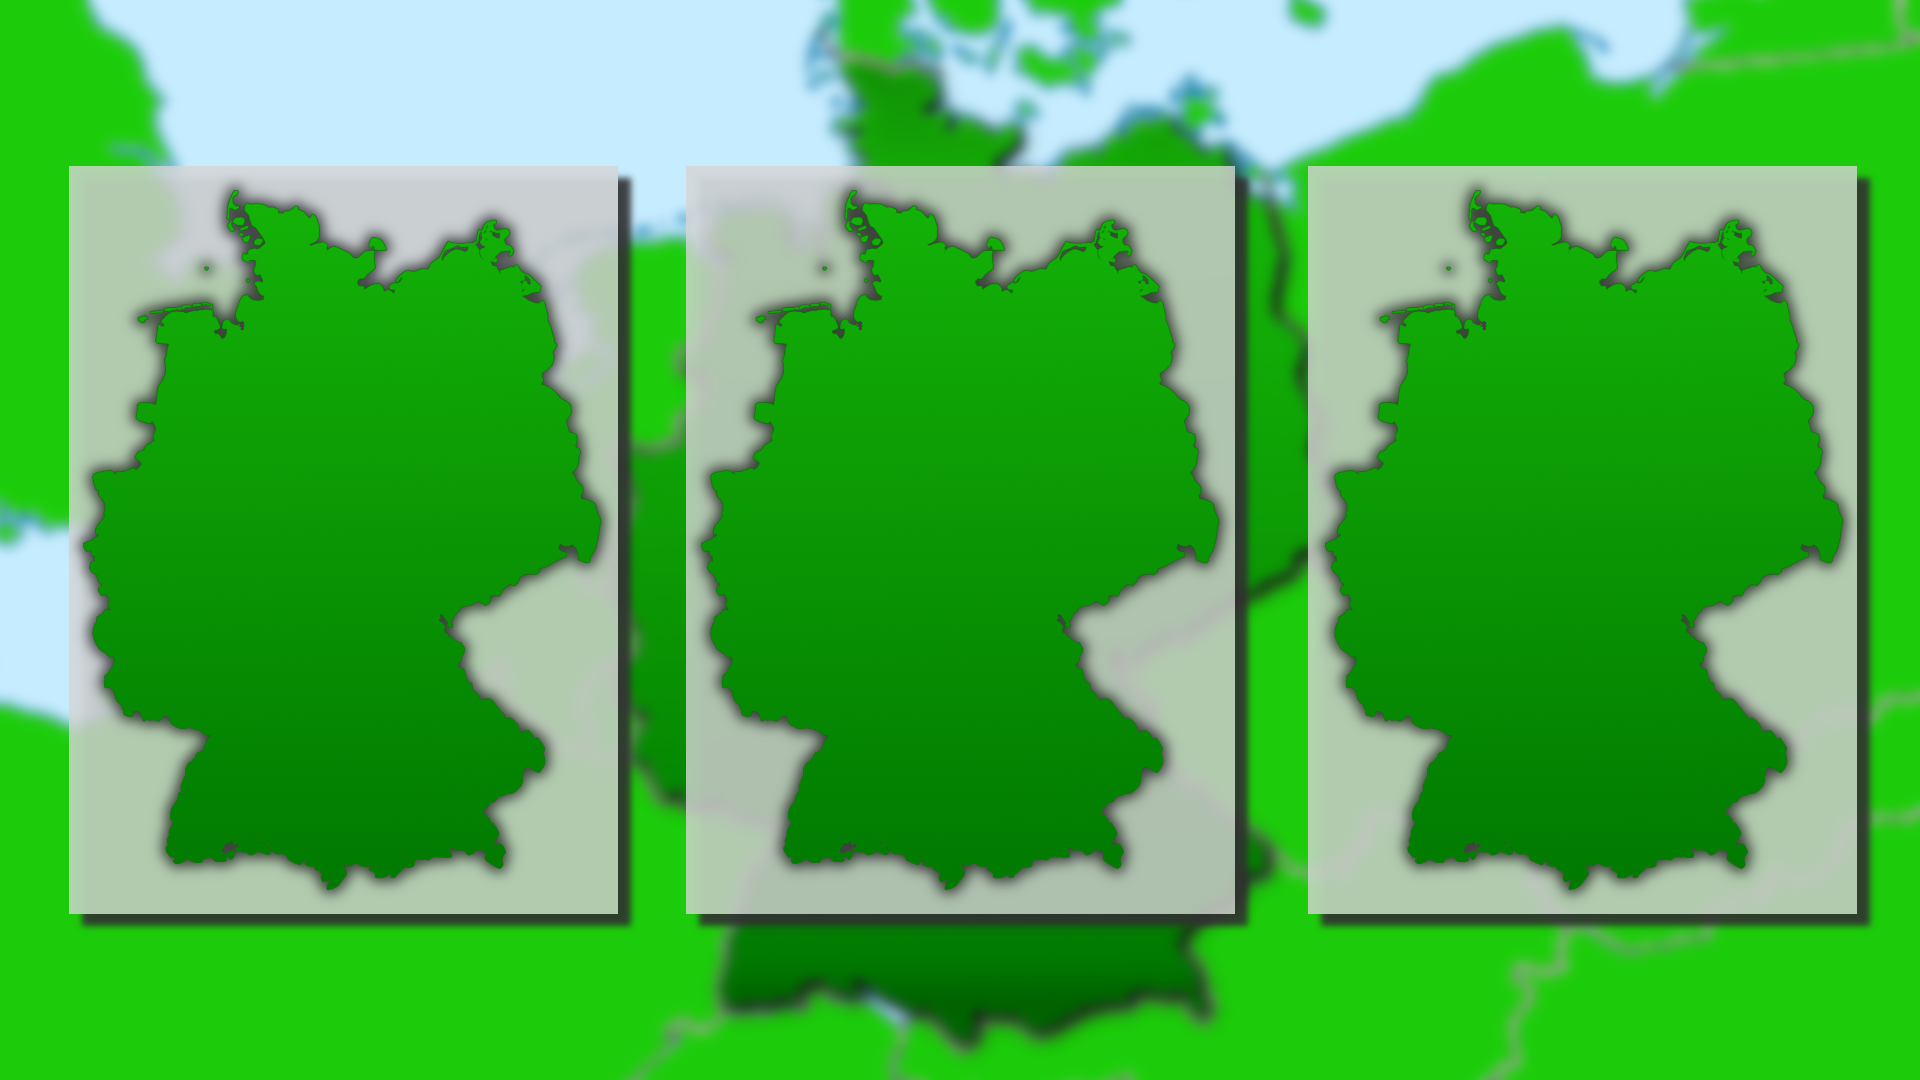
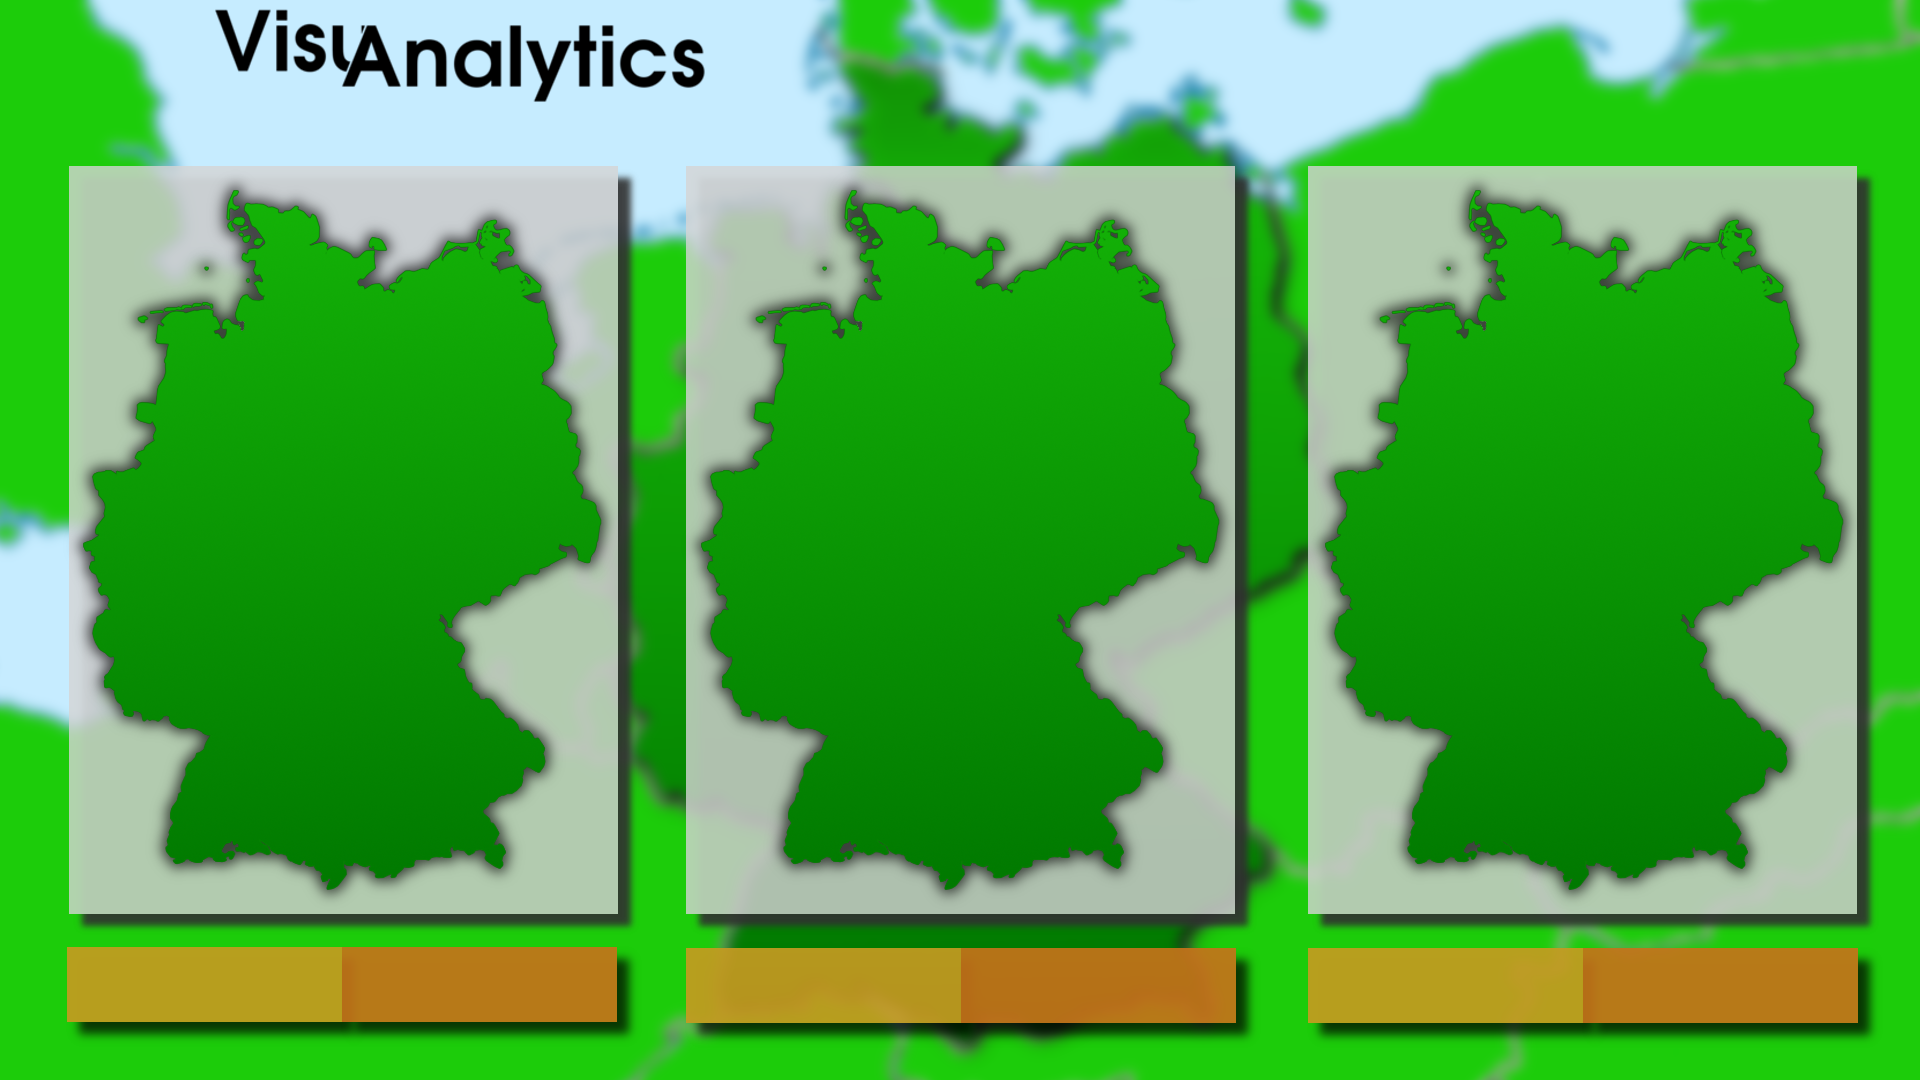
Wochentage auf 3 Tages Vorhersage hinzugefügt

Changed region(s): [[0.0312, 0.8556, 1.0, 0.9778], [0.0938, 0.0, 0.375, 0.0917]]

diff --git a/src/visuanalytics/analytics/processing/weather/weather_visualization.py b/src/visuanalytics/analytics/processing/weather/weather_visualization.py
@@ -6,13 +6,21 @@ from PIL import Image
 from PIL import ImageDraw
 from PIL import ImageFont
 from visuanalytics.analytics.util import resources
+from visuanalytics.analytics.processing.util import date_time
 import uuid
 
+LOCATIONS_WEEKDAYS = [(205, 103), (828, 103), (1435, 103)]
+"""
+list: Liste aus Tupeln: X und Y Koordinaten der Min Temperaturen in der 3 Tages Vorhersage.
+"""
 
-def get_three_pic(data, data2):
+
+def get_three_pic(data, data2, date):
     """
     Methode zum generieren des Bildes für die Vorhersage für die nächsten 2-4 Tage.
 
+    :param datum: Datum des Tages zuvor
+    :type datum : str
     :param data: Das Ergebnis der Methode :func:`get_ico_three()`.
     :type data: list
     :param dat2: Das Ergebnis der Methode :func:`get_temp_mm_three()`.
@@ -32,11 +40,17 @@ def get_three_pic(data, data2):
             source_img.paste(icon, item[i + 0], icon)
 
     draw = ImageDraw.Draw(source_img)
-
     for item in data2:
         draw.text((item[0][0] + _get_shifting(item[1]), item[0][1]), item[1],
-                  font=ImageFont.truetype(resources.get_resource_path("weather/FreeSansBold.ttf"), 60))
+                  font=ImageFont.truetype(resources.get_resource_path("weather/FreeSansBold.ttf"), 60), )
 
+    weekdates = date_time.date_to_weekday(date)
+    for idx, item in enumerate(LOCATIONS_WEEKDAYS):
+        draw.text((item[0] + 4, item[1] + 4), str(weekdates[idx + 1]),
+                  font=ImageFont.truetype(resources.get_resource_path("weather/weather/FreeSansBold.ttf"), 60),
+                  fill="black")
+        draw.text((item[0], item[1]), str(weekdates[idx + 1]),
+                  font=ImageFont.truetype(resources.get_resource_path("weather/weather/FreeSansBold.ttf"), 60))
     file = str(uuid.uuid4())
     Image.composite(img1, source_img, img1).save(
         resources.get_resource_path("temp/weather/" + file + ".png"))

diff --git a/src/visuanalytics/analytics/preprocessing/weather.py b/src/visuanalytics/analytics/preprocessing/weather.py
@@ -192,7 +192,7 @@ def get_temp_mm_three(data):
     out = []
     for idx, entry in enumerate(LOCATIONS_TEMP_MIN_THREEDAYS):
         out.append((entry, _get_min_temp(data, idx + 1)))
-    for entry in LOCATIONS_TEMP_MAX_THREEDAYS:
+    for idx, entry in enumerate(LOCATIONS_TEMP_MAX_THREEDAYS):
         out.append((entry, _get_max_temp(data, idx + 1)))
     return out
 
@@ -222,6 +222,11 @@ def get_ico_three(data):
             (entry[1], entry[2], entry[3], _get_weather_icon(data, entry[0], 1), _get_weather_icon(data, entry[0], 2),
              _get_weather_icon(data, entry[0], 3)))
     return out
+
+
+def get_day(data):
+    return data['cities']['Kiel'][0]['datetime']
+    pass
 
 
 def _get_weather_icon(data, location, date_in_future):

diff --git a/src/visuanalytics/analytics/control/weather/forecast_germany.py b/src/visuanalytics/analytics/control/weather/forecast_germany.py
@@ -14,6 +14,6 @@ else:
 data = weather.preprocess_weather_data(json_data)
 
 ws.get_three_pic(weather.get_ico_three(data),
-                 weather.get_temp_mm_three(data))
+                 weather.get_temp_mm_three(data), weather.get_day(data))
 ws.get_tomo_icons(weather.get_ico_tomorow(data))
 ws.get_tomo_temperatur(weather.get_temp_tomorow(data))
